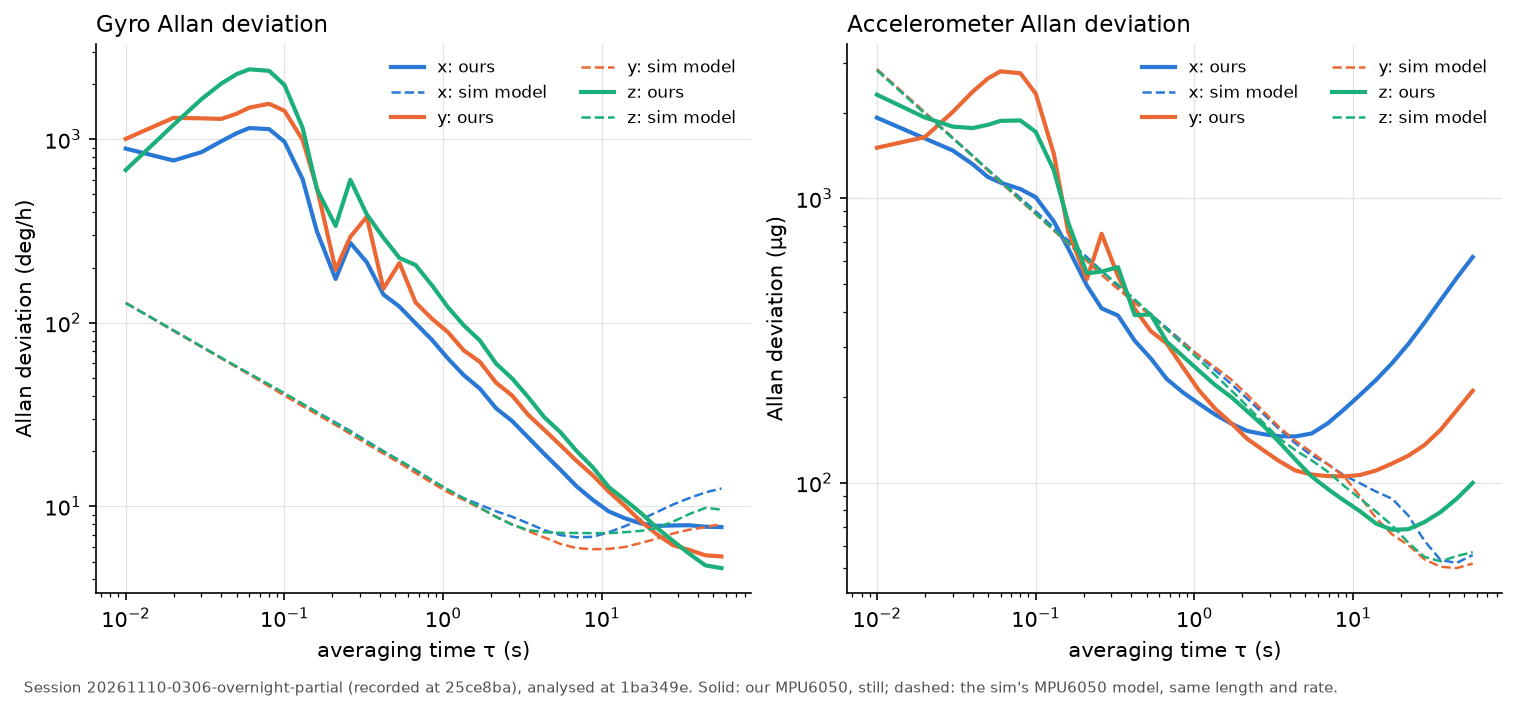
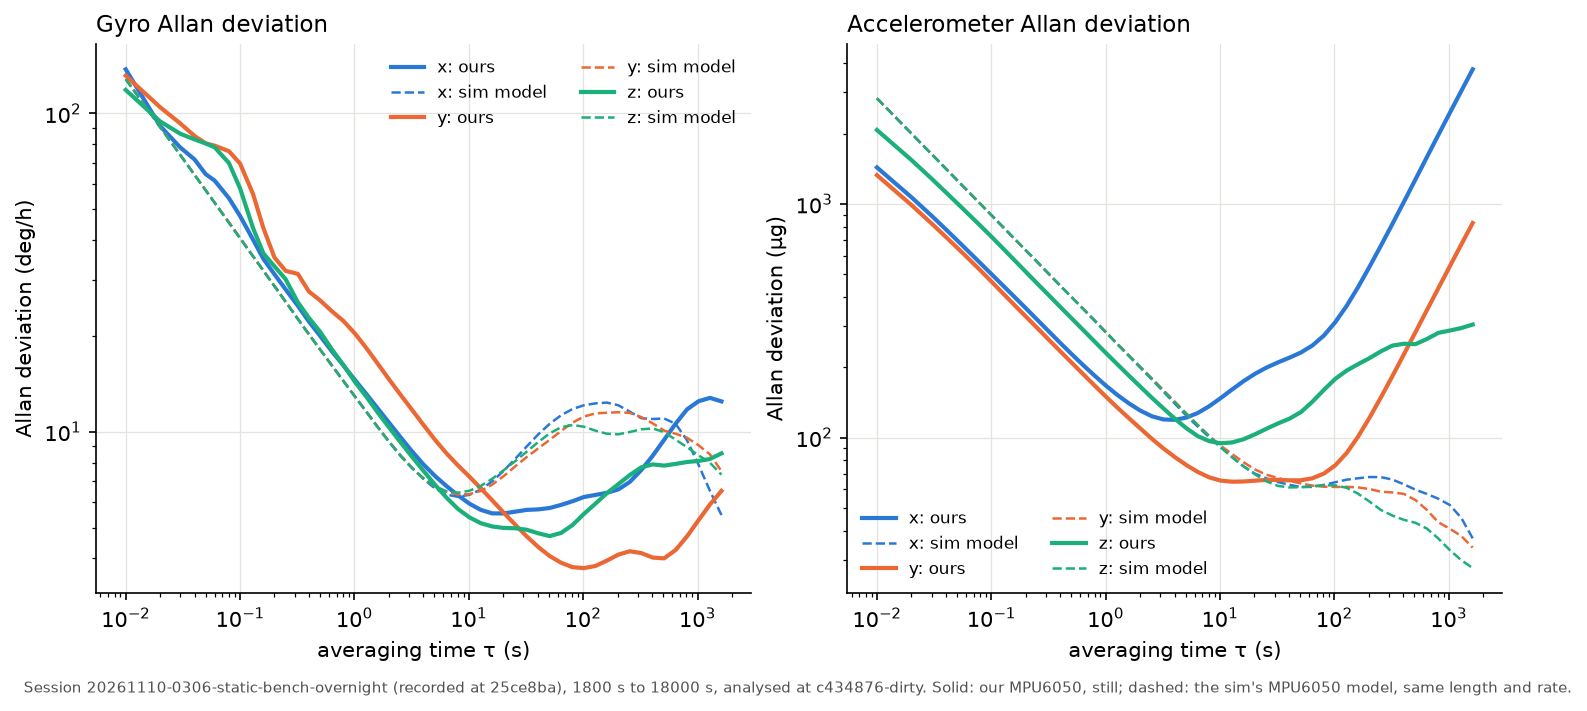
docs(analysis): replace the Allan evidence with the clean overnight window
The 565 s snapshot included a disturbance in its first 25 min. The new figure is 1800-18000 s of the overnight session, before the bench was handled.

diff --git a/analysis/pr-evidence/shrikar-feat-imu-allan/summary.md b/analysis/pr-evidence/shrikar-feat-imu-allan/summary.md
@@ -1,18 +1,18 @@
-# IMU Allan deviation: 20261110-0306-overnight-partial
+# IMU Allan deviation: 20261110-0306-static-bench-overnight
 
-Session `20261110-0306-overnight-partial` (recorded at commit `25ce8ba`), analysed at commit `1ba349e`. Hardware: ['host', 'mpu6050']. First 0 s dropped.
+Session `20261110-0306-static-bench-overnight` (recorded at commit `25ce8ba`), analysed at commit `c434876-dirty`. Hardware: ['host', 'mpu6050']. Window from 1800 s to 18000 s of the session.
 
-56550 samples over 565 s at 100.0 Hz; 0 intervals > 1.5x nominal, longest 0.013 s.
+1620000 samples over 16200 s at 100.0 Hz; 1 intervals > 1.5x nominal, longest 0.018 s.
 
 | Sensor | Axis | Noise density | Allan check (slope) | Sim model | Floor | at τ (s) | Floor reached | Static mean | Spectral peak (Hz) |
 | --- | --- | --- | --- | --- | --- | --- | --- | --- | --- |
-| accel | x | 291 ug/sqrt(Hz) | 373 (-0.47) | 400 | 145 ug (sim 52.2) | 4.33 | yes | -0.08993 m/s² | 4.27 |
-| accel | y | 207 ug/sqrt(Hz) | 299 (-0.50) | 400 | 105 ug (sim 50.1) | 8.73 | yes | 1.896 m/s² | 5.54 |
-| accel | z | 357 ug/sqrt(Hz) | 362 (-0.50) | 400 | 68.3 ug (sim 52.9) | 17.6 | yes | 8.86 m/s² | 4.59 |
-| gyro | x | 0.026 deg/s/sqrt(Hz) | 0.0363 (-0.65) | 0.005 | 7.7 deg/h (sim 6.78) | 56.6 | no | -3.739 deg/s | 5.54 |
-| gyro | y | 0.0521 deg/s/sqrt(Hz) | 0.173 (-0.39) | 0.005 | 5.33 deg/h (sim 5.84) | 56.6 | no | 0.8524 deg/s | 4.59 |
-| gyro | z | 0.0143 deg/s/sqrt(Hz) | 0.0645 (-0.38) | 0.005 | 4.61 deg/h (sim 7.14) | 56.6 | no | 1.005 deg/s | 5.54 |
+| accel | x | 214 ug/sqrt(Hz) | 227 (-0.49) | 400 | 119 ug (sim 37) | 4.02 | yes | -0.5642 m/s² | 1.64 |
+| accel | y | 198 ug/sqrt(Hz) | 208 (-0.50) | 400 | 64.7 ug (sim 33.8) | 12.8 | yes | 2 m/s² | 6.81 |
+| accel | z | 309 ug/sqrt(Hz) | 324 (-0.50) | 400 | 94.5 ug (sim 27.6) | 10.1 | yes | 8.842 m/s² | 4.59 |
+| gyro | x | 0.00492 deg/s/sqrt(Hz) | 0.00549 (-0.50) | 0.005 | 5.54 deg/h (sim 5.47) | 20.2 | yes | -3.723 deg/s | 42.11 |
+| gyro | y | 0.00534 deg/s/sqrt(Hz) | 0.00813 (-0.50) | 0.005 | 3.73 deg/h (sim 6.35) | 102 | yes | 0.8509 deg/s | 4.66 |
+| gyro | z | 0.0049 deg/s/sqrt(Hz) | 0.00571 (-0.50) | 0.005 | 4.7 deg/h (sim 6.44) | 50.9 | yes | 1.002 deg/s | 6.81 |
 
-Mean |accel| 9.0607 m/s² against g = 9.80665 (-7.6 %): scale and bias together; a single static pose cannot separate them.
+Mean |accel| 9.0825 m/s² against g = 9.80665 (-7.4 %): scale and bias together; a single static pose cannot separate them.
 
 Noise density is the median spectrum in 10-30 Hz, in the sim's convention (`pnt.sim.sensors`: sigma = N·sqrt(fs/2)), so it can replace the `ImuParams` value. *Allan check* is the same density from the curve's slope -1/2 stretch (its slope in brackets); a vibration (see the spectral peak) bends the curve and makes it disagree. *Floor reached: no* means the curve was still falling at the longest τ: the record is too short to see the bias instability.
